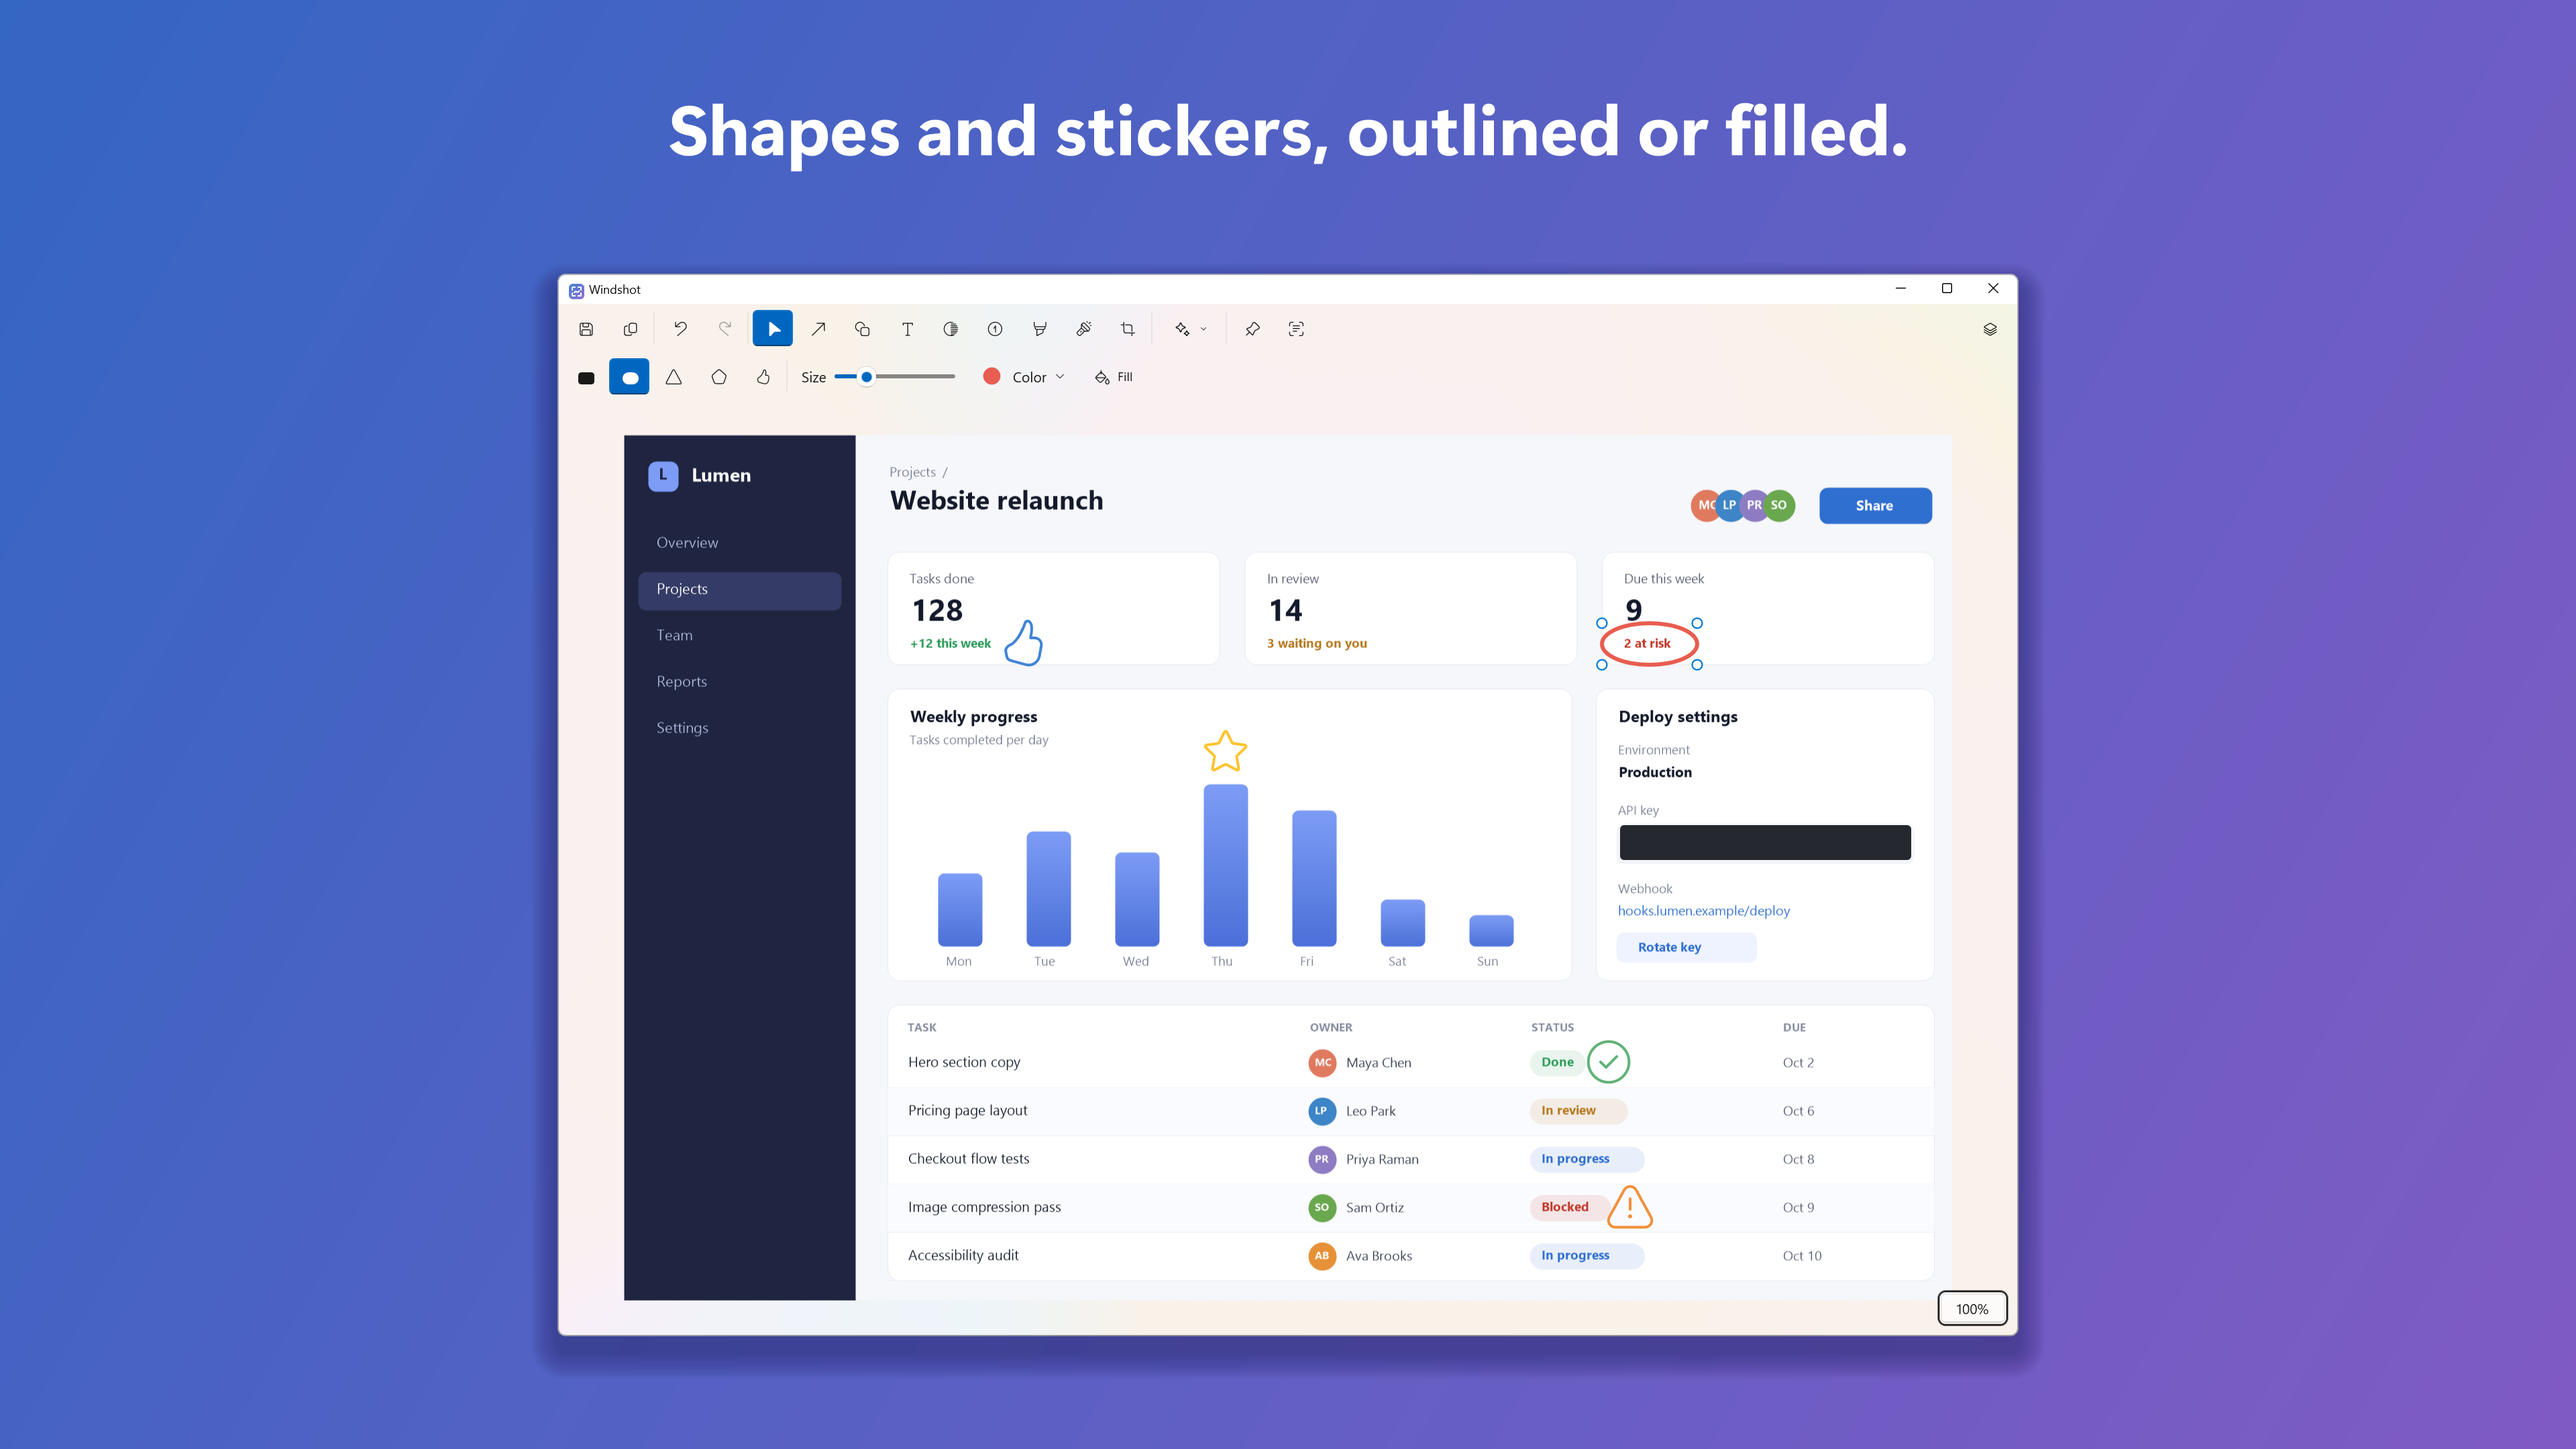
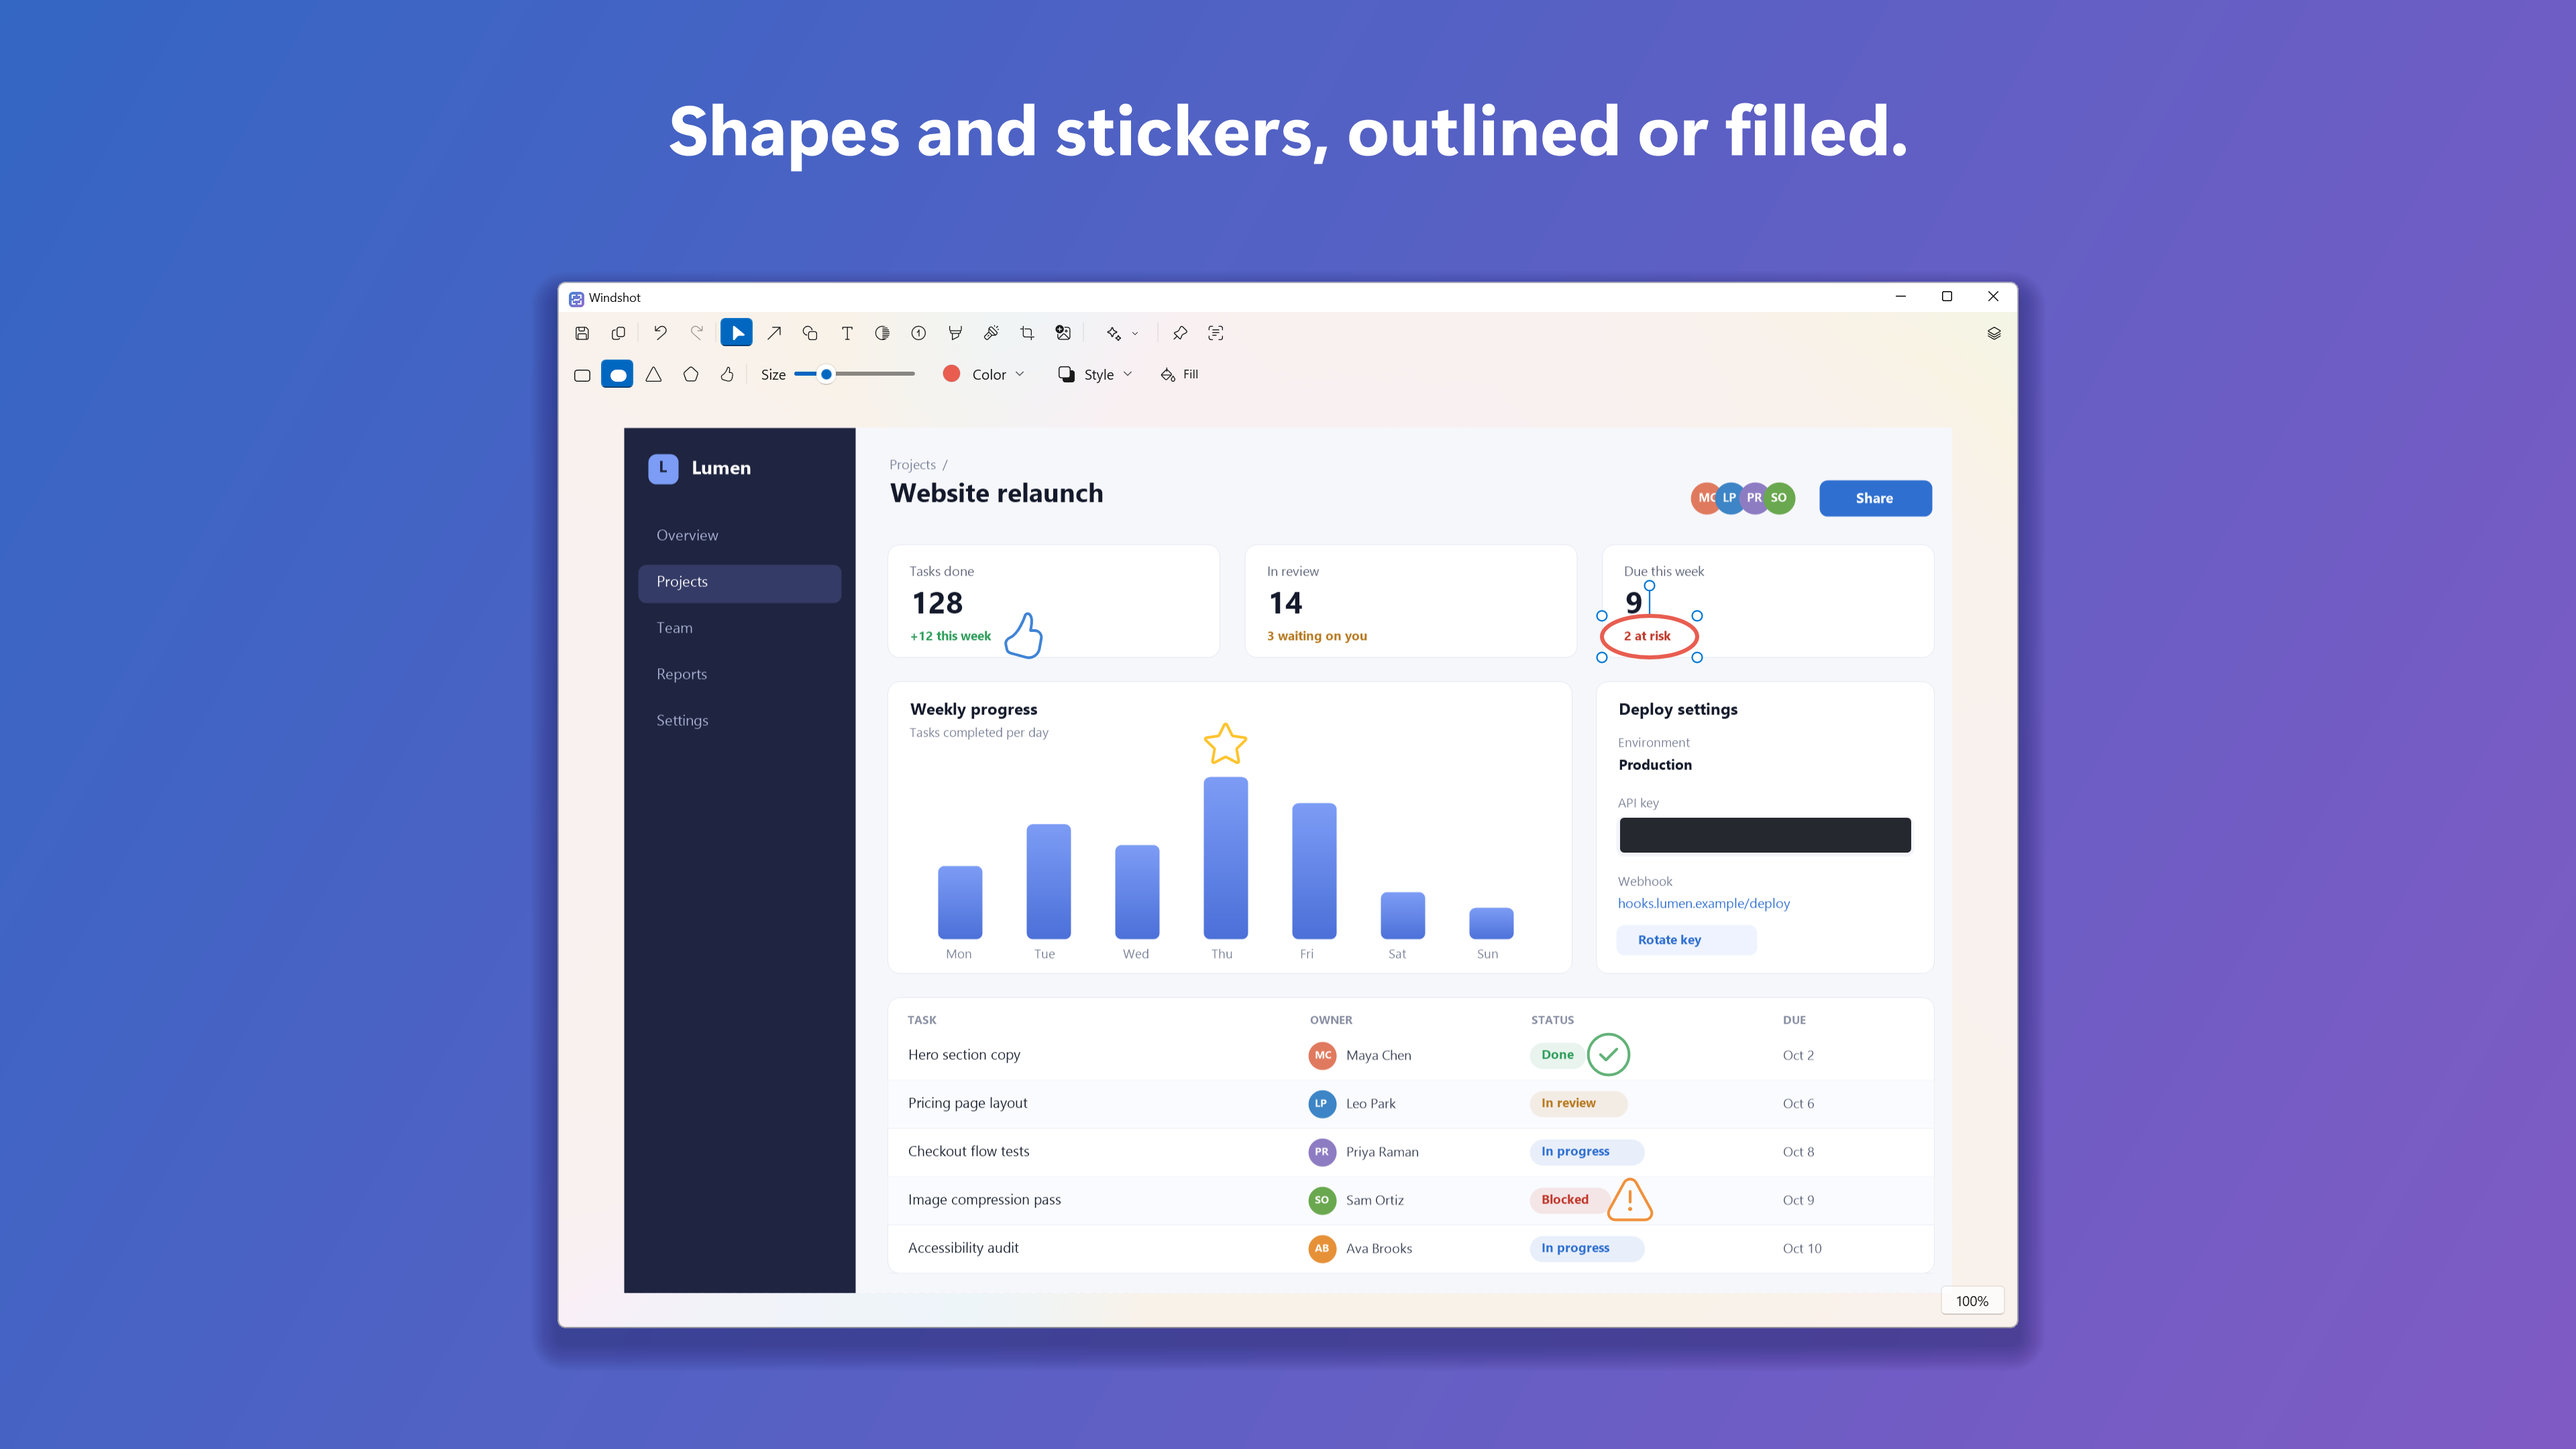
Store screenshots for 1.2, with a tenth for pictures and style
The editor shots are regenerated with the compact toolbar, and
10-pictures shows the Lumen phone pasted in, tilted, outlined and shadowed,
with the Style menu open. The Style and Color menus now open aligned with
their button's left edge, so they don't hang off the window.

diff --git a/src/Windshot/Editing/EditorWindow.xaml b/src/Windshot/Editing/EditorWindow.xaml
@@ -148,7 +148,7 @@
                         <!-- Free to extend past the window's bottom: confined to the window, it
                              would slide up over the toolbar once the color wheel is open, and
                              open behind the "…" menu, which is a window of its own. -->
-                        <Flyout x:Name="ColorFlyout" Placement="Bottom" ShouldConstrainToRootBounds="False">
+                        <Flyout x:Name="ColorFlyout" Placement="BottomEdgeAlignedLeft" ShouldConstrainToRootBounds="False">
                             <StackPanel x:Name="ColorFlyoutContent" Spacing="12">
                                 <!-- Switching sets recolors what's drawn to the new set's matching colors. -->
                                 <!-- For supporters (shown in code). -->
@@ -190,7 +190,7 @@
                     </StackPanel>
                     <DropDownButton.Flyout>
                         <!-- Unconfined like the color menu, so it opens above the "…" menu too. -->
-                        <Flyout x:Name="StyleFlyout" Placement="Bottom" ShouldConstrainToRootBounds="False">
+                        <Flyout x:Name="StyleFlyout" Placement="BottomEdgeAlignedLeft" ShouldConstrainToRootBounds="False">
                             <StackPanel x:Name="StyleFlyoutContent" Width="248" Spacing="8">
                                 <Slider x:Name="OutlineSlider" Header="Outline" Minimum="0" Maximum="10" StepFrequency="1" />
                                 <StackPanel Orientation="Horizontal" Spacing="16" Margin="0,-6,0,0">

diff --git a/store/listing.md b/store/listing.md
@@ -146,6 +146,7 @@ order; the headline is in each image, and the caption (optional, 200 characters)
 7. `07-themes.png`: Supporter themes, color sets and fonts: a one-time purchase. Everything else is free.
 8. `08-pin.png`: Float a capture above your other windows while you work.
 9. `09-settings.png`: Change any shortcut, including Print Screen, and start with Windows.
+10. `10-pictures.png`: Paste or drop in a picture, and give it, or anything else, an outline, a soft shadow and rounded corners.
 ### Store logos
 
 Partner Center can use the package's logos. Optionally upload a 1:1 box art at 1080×1080 or
